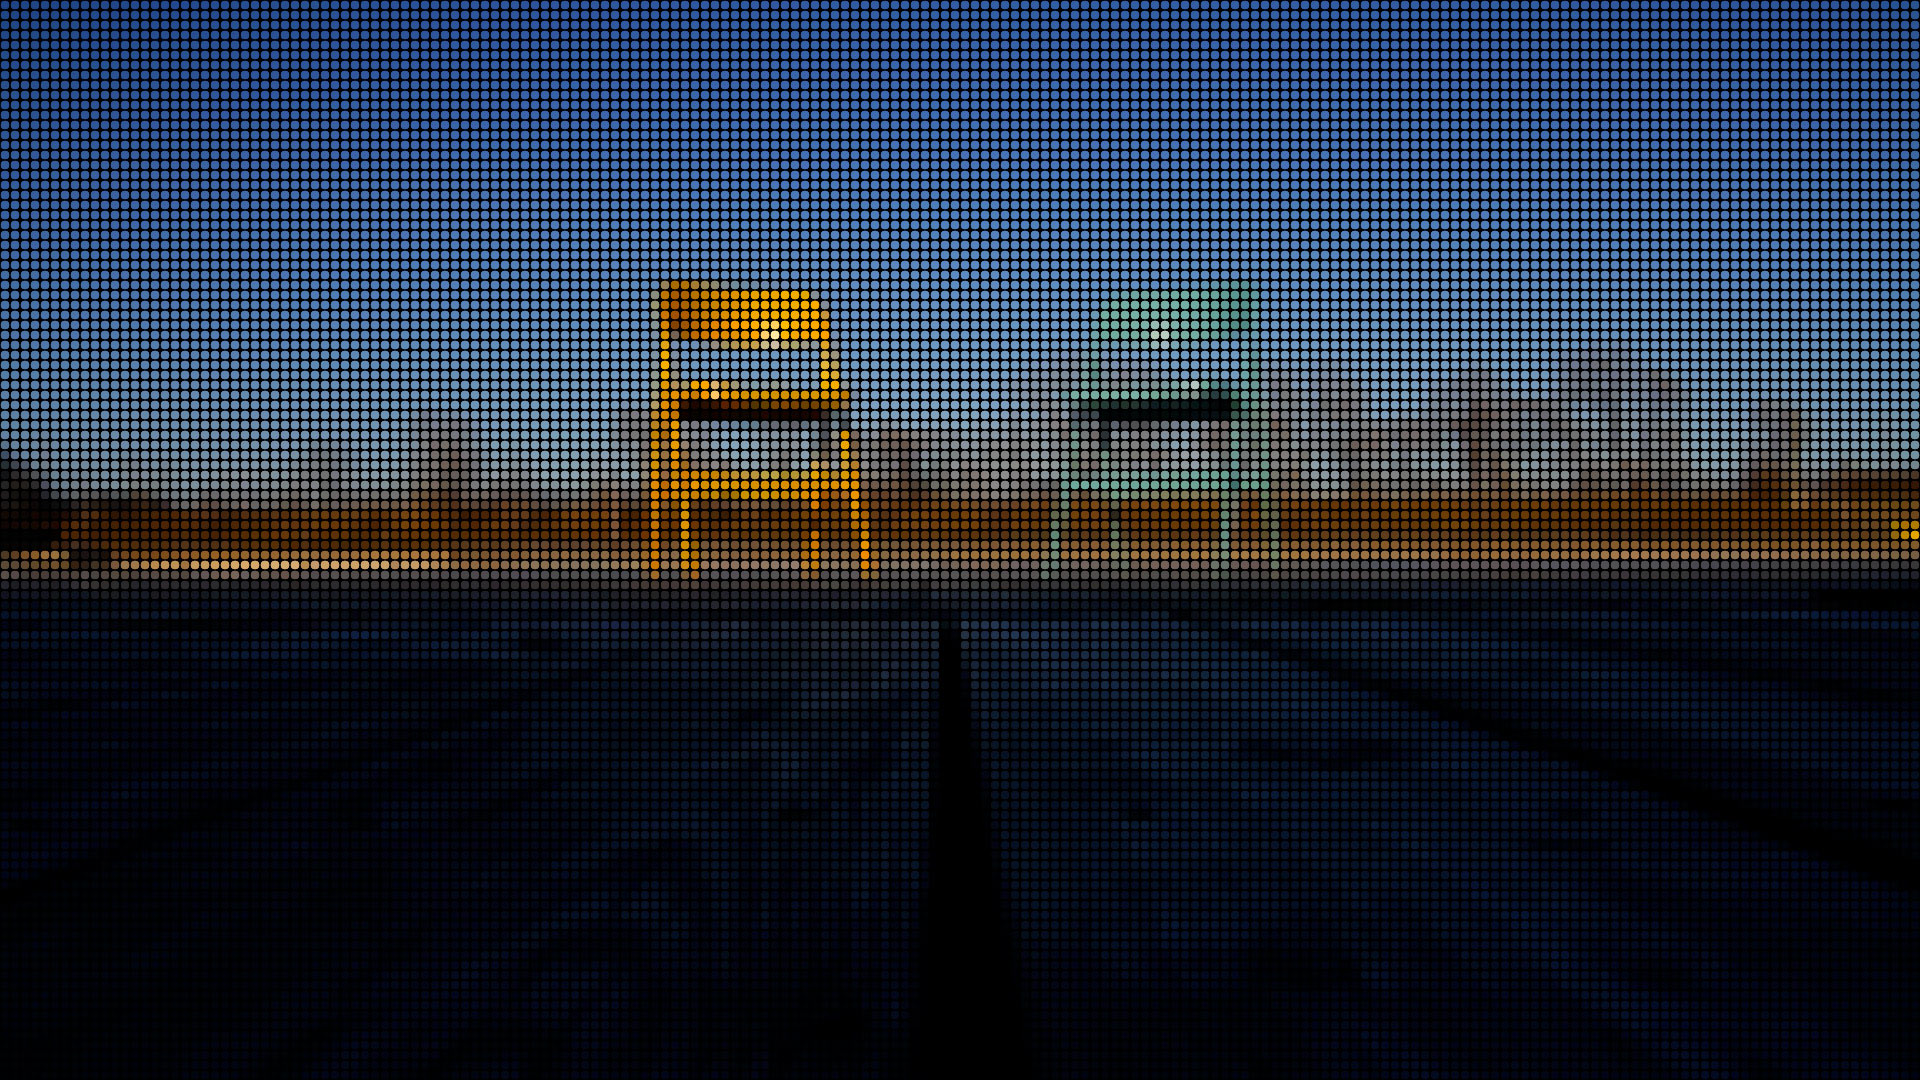
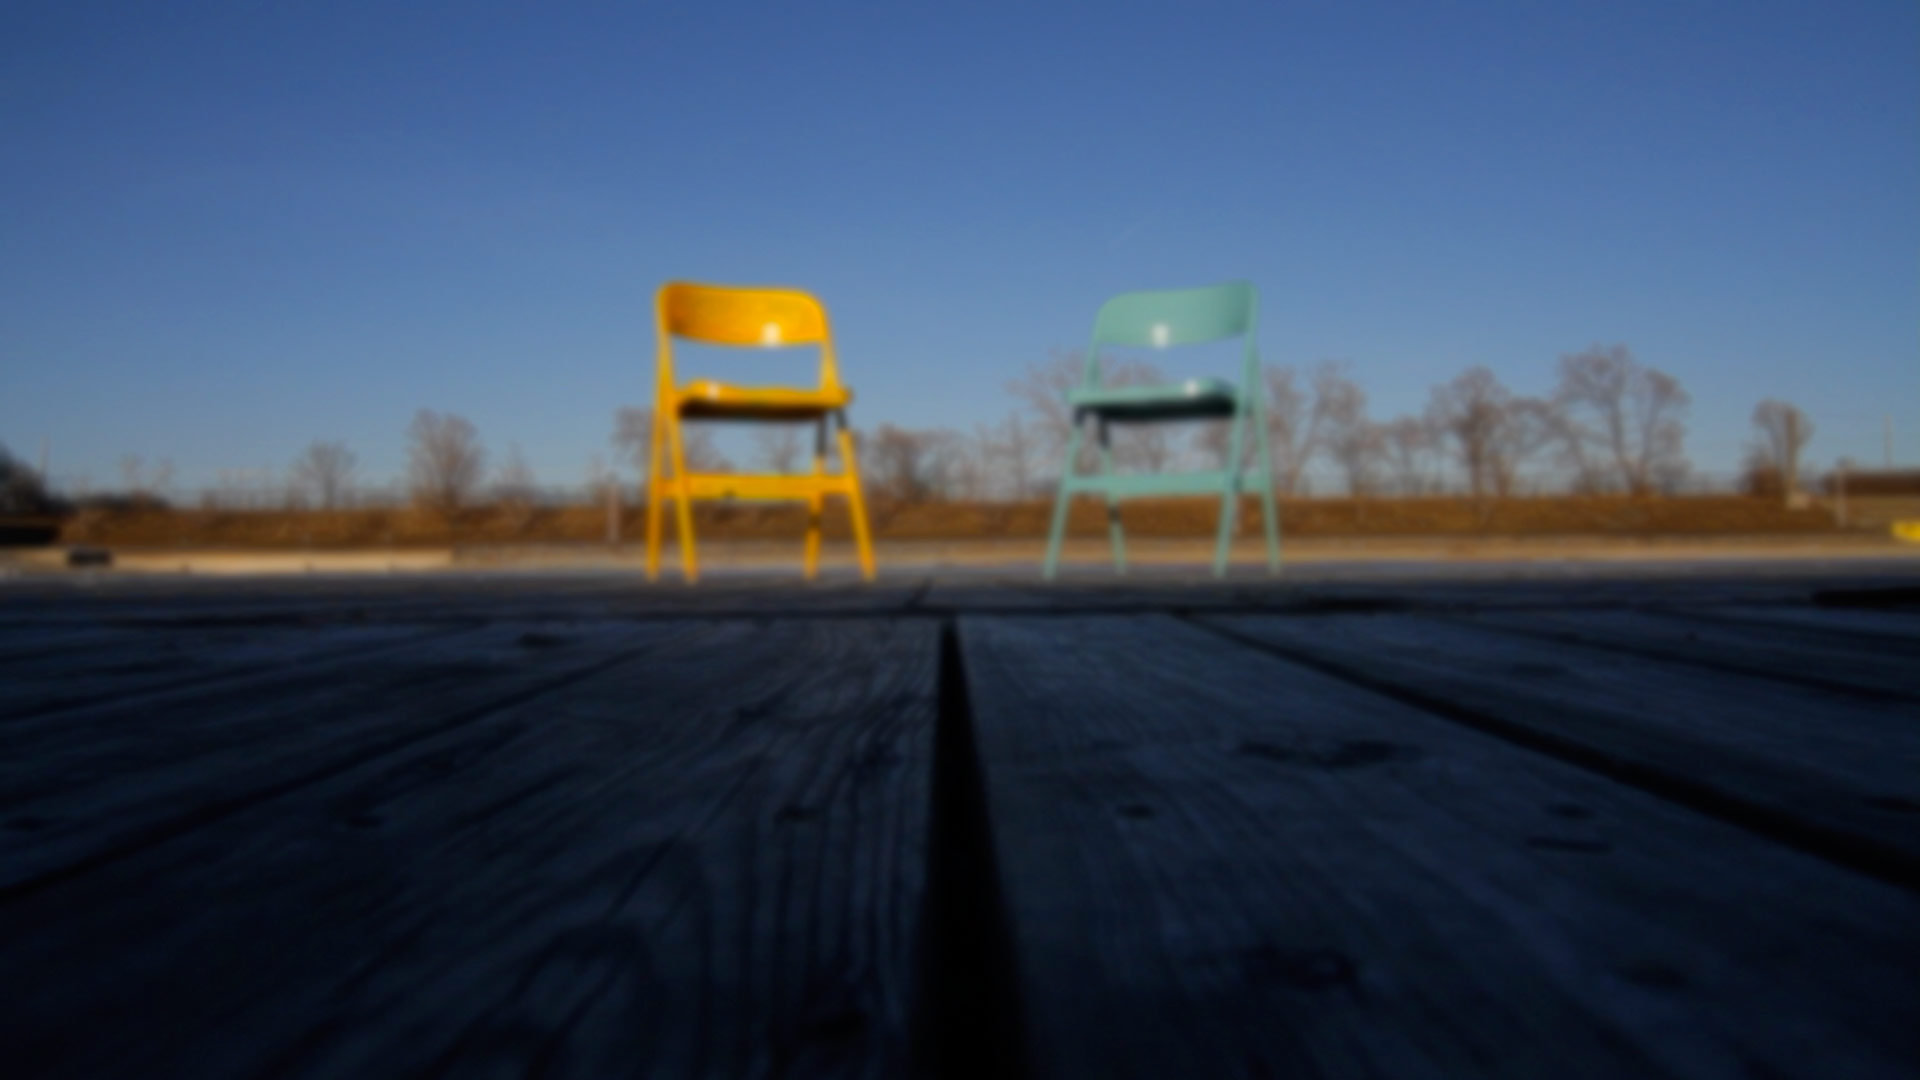
New background added to the website.

diff --git a/css/main.scss b/css/main.scss
@@ -40,7 +40,7 @@ $grey-color-dark:  darken($grey-color, 25%);
 ;
 
 body {
-  background: url(assets/background.jpg) no-repeat center center fixed;
+  background: url(../assets/background.jpg) no-repeat center center fixed;
   -webkit-background-size: cover;
   -moz-background-size: cover;
   -o-background-size: cover;
